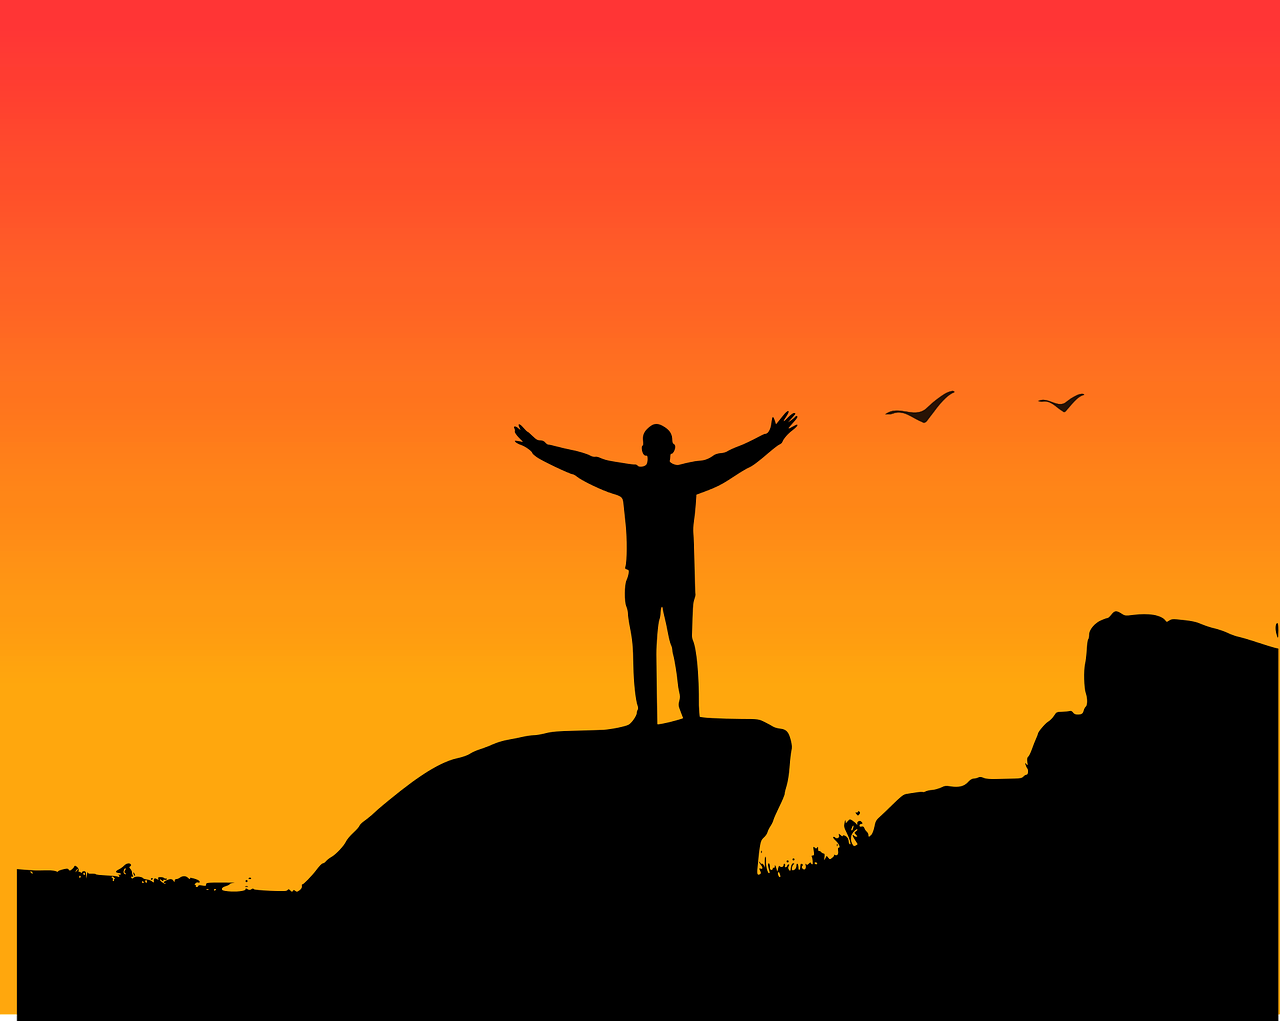
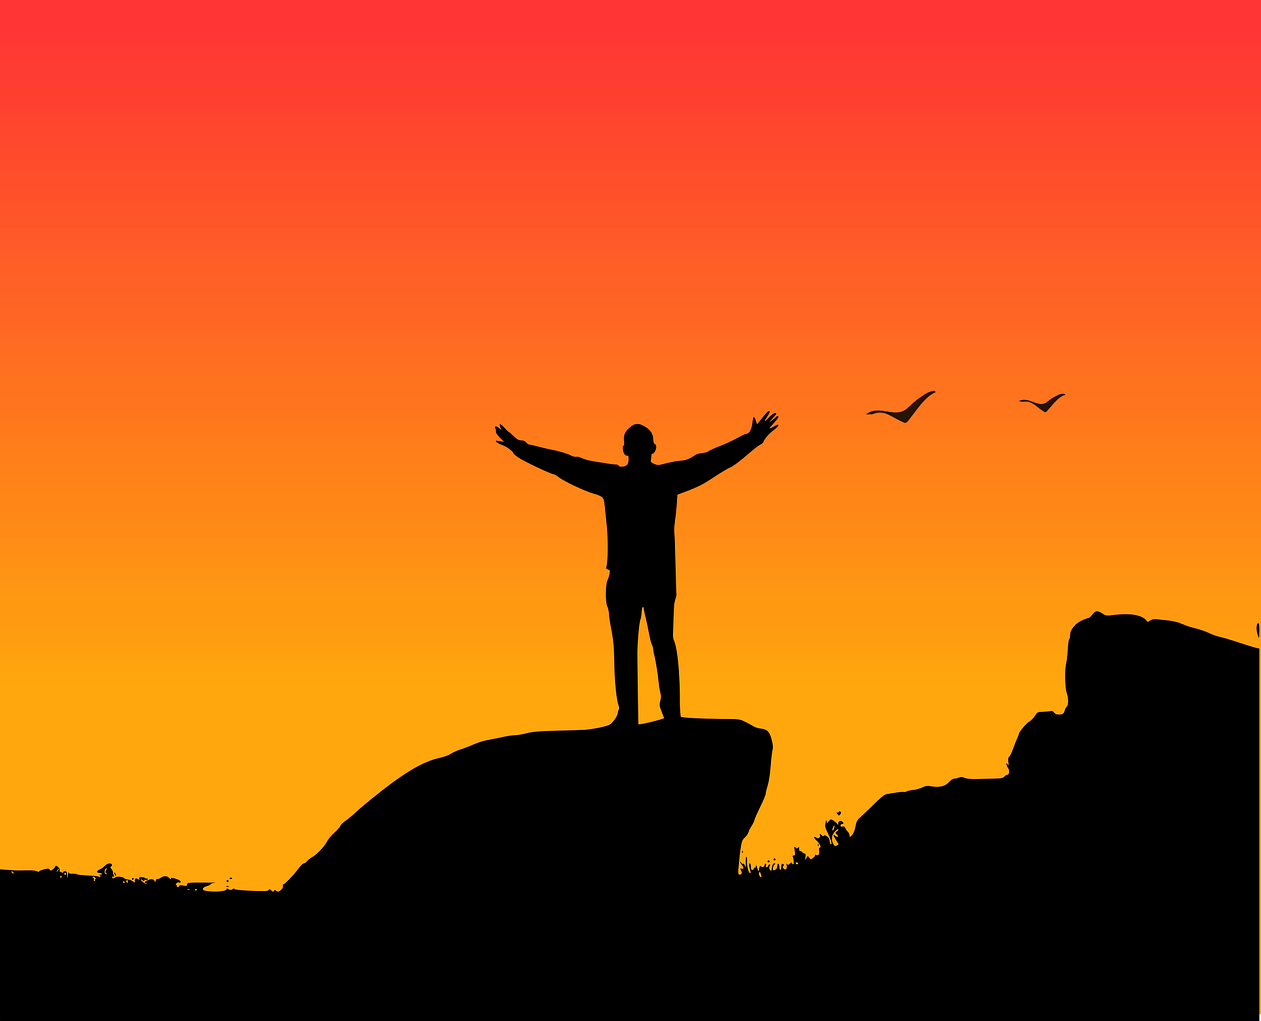
changed app view with padding, margin, background, added new class and text in js 'cost' - prepare for react

diff --git a/index.html b/index.html
@@ -28,36 +28,38 @@
   </head>
   <body class="body">
     <div class="element">
-      <form class="js-form">
+      <form class="js-form form">
         <p>
           Oblicz ile zapłacisz za jedną akcję w <strong>PLN</strong> w
           zależności od kursu akcji oraz kursu USD
         </p>
         <fieldset class="form__fieldset">
           <legend class="form__legend">Wprowadź parametry</legend>
-          <p>
-            <label>
-              Kurs akcji:
-              <input
-                name="quotes"
-                type="number"
-                class="js-quotes form__field"
-                required
-              />
-            </label>
-          </p>
-          <p>
-            <label>
-              Kurs USD:
-              <input
-                name="exchange"
-                type="number"
-                class="js-exchange form__field"
-                required
-              />
-            </label>
-          </p>
-          <p>
+          <div class="flex">
+            <p class="flex__item">
+              <label>
+                Kurs akcji:
+                <input
+                  name="quotes"
+                  type="number"
+                  class="js-quotes form__field"
+                  required
+                />
+              </label>
+            </p>
+            <p class="flex__item">
+              <label>
+                Kurs USD:
+                <input
+                  name="exchange"
+                  type="number"
+                  class="js-exchange form__field"
+                  required
+                />
+              </label>
+            </p>
+          </div>
+          <p class="form__paragraph">
             Koszt jednej akcji wynosi:<strong class="js-cost form__cost"
               >n/a</strong
             >
@@ -81,7 +83,7 @@
               </select>
             </label>
           </p>
-          <p>
+          <p class="form__paragraph">
             <label>
               Wprowadź kwotę:
               <input
@@ -96,10 +98,14 @@
             </label>
             PLN
           </p>
-          <p>
-            <button class="form__button">Oblicz</button>
-          </p>
-          <p>= <strong class="js-score form__cost"> n/a</strong></p>
+          <div class="flex">
+            <p class="flex__item">
+              <button class="form__button">Oblicz</button>
+            </p>
+            <p class="flex__item">
+              = <strong class="js-score form__cost"> n/a</strong>
+            </p>
+          </div>
         </fieldset>
       </form>
     </div>

diff --git a/css/form.css b/css/form.css
@@ -15,7 +15,7 @@
     background-color: rgb(244 232 97);
     border: 1px solid currentColor;
     border-radius: 8px;
-    padding: 5px 10px;
+    padding: 7px 10px;
     margin-left: 5px;
     margin-right: 5px;
 }
@@ -39,11 +39,26 @@
     background-color: rgb(244 232 97);
     border: 1px solid currentColor;
     border-radius: 8px;
-    padding: 6px;
-    width: 80%;
-
+    padding: 5px;
+    width: 100%;
 }
 
 .form__button:hover {
     background-color: hsl(55, 87%, 77%);;
+}
+
+.form__paragraph {
+    margin: 0;
+    padding: 5px;
+}
+
+.flex {
+    display:flex;
+    justify-content: space-between;
+    align-items: center;
+}
+
+.flex__item {
+    padding: 0 5px;
+    flex-basis: 50%;
 }

diff --git a/css/element.css b/css/element.css
@@ -1,9 +1,8 @@
 .element {
-    padding: 0 1%;
-    background-image: url("../images/tloPomaranczowe.png");
-    max-width: 1200px;
-    max-height: 1000px;
-    width: 100%;
+    margin: 0 auto;
+    padding: 10px 25px 40px 25px;
+    background-image: url("../images/tloPomaranczowe2.png");
+    max-width: 900px;
     overflow: auto;
     background-size: cover;
     background-position: center;

diff --git a/js/script.js b/js/script.js
@@ -2,8 +2,9 @@
   const updatePriceText = (cost) => {
     const costElement = document.querySelector(".js-cost");
 
-    costElement.innerText =
-      cost < 0 ? "Wprowadź dodatnie liczby" : cost.toFixed(2);
+    costElement.innerText = `${
+      cost < 0 ? "tylko liczby dodatnie" : cost.toFixed(2)
+    }`;
   };
 
   const priceCalculate = () => {
